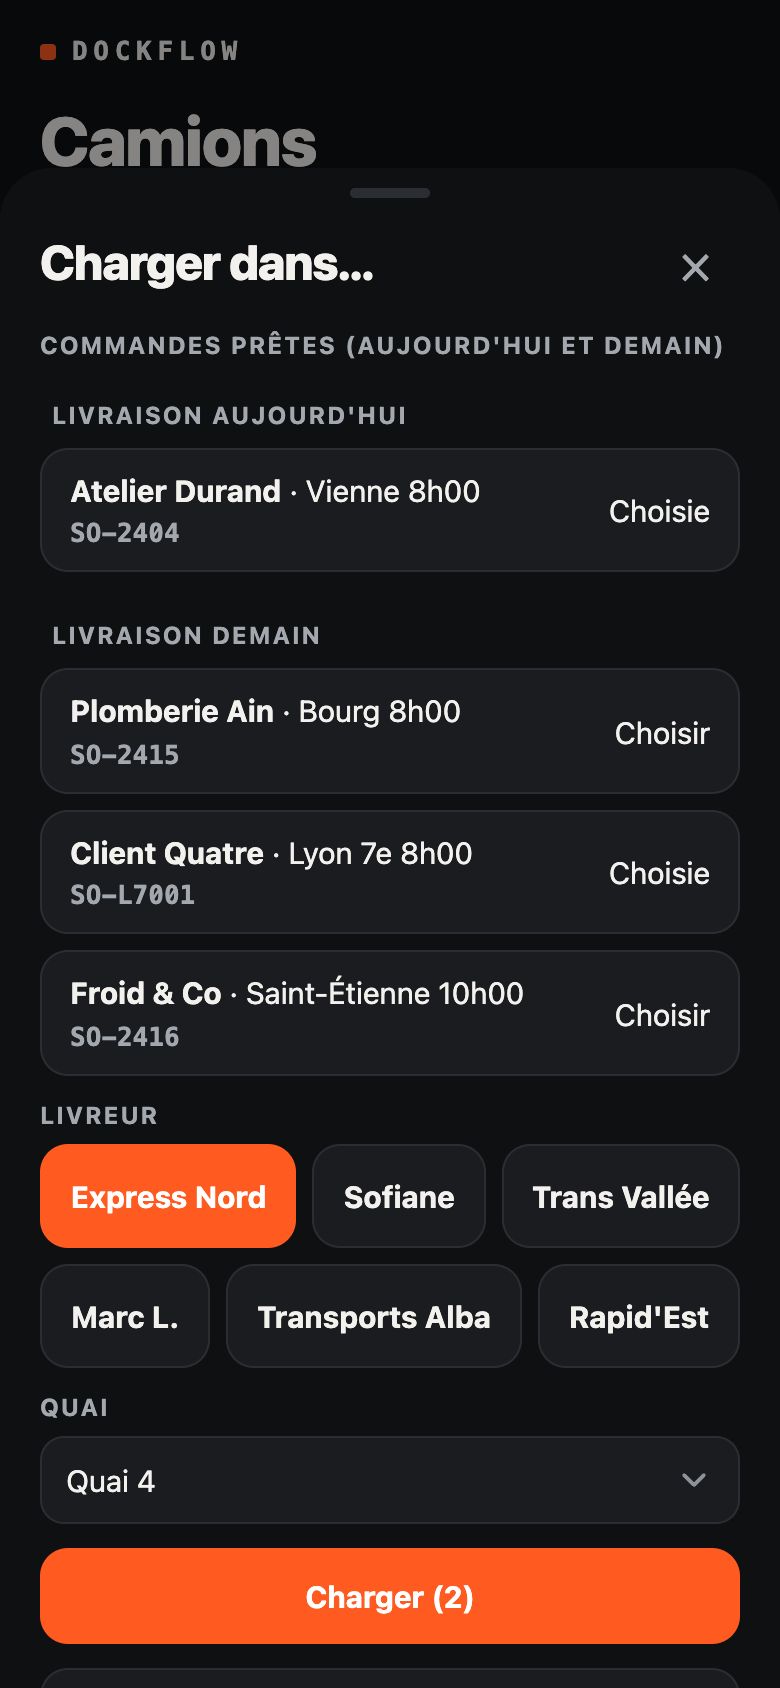
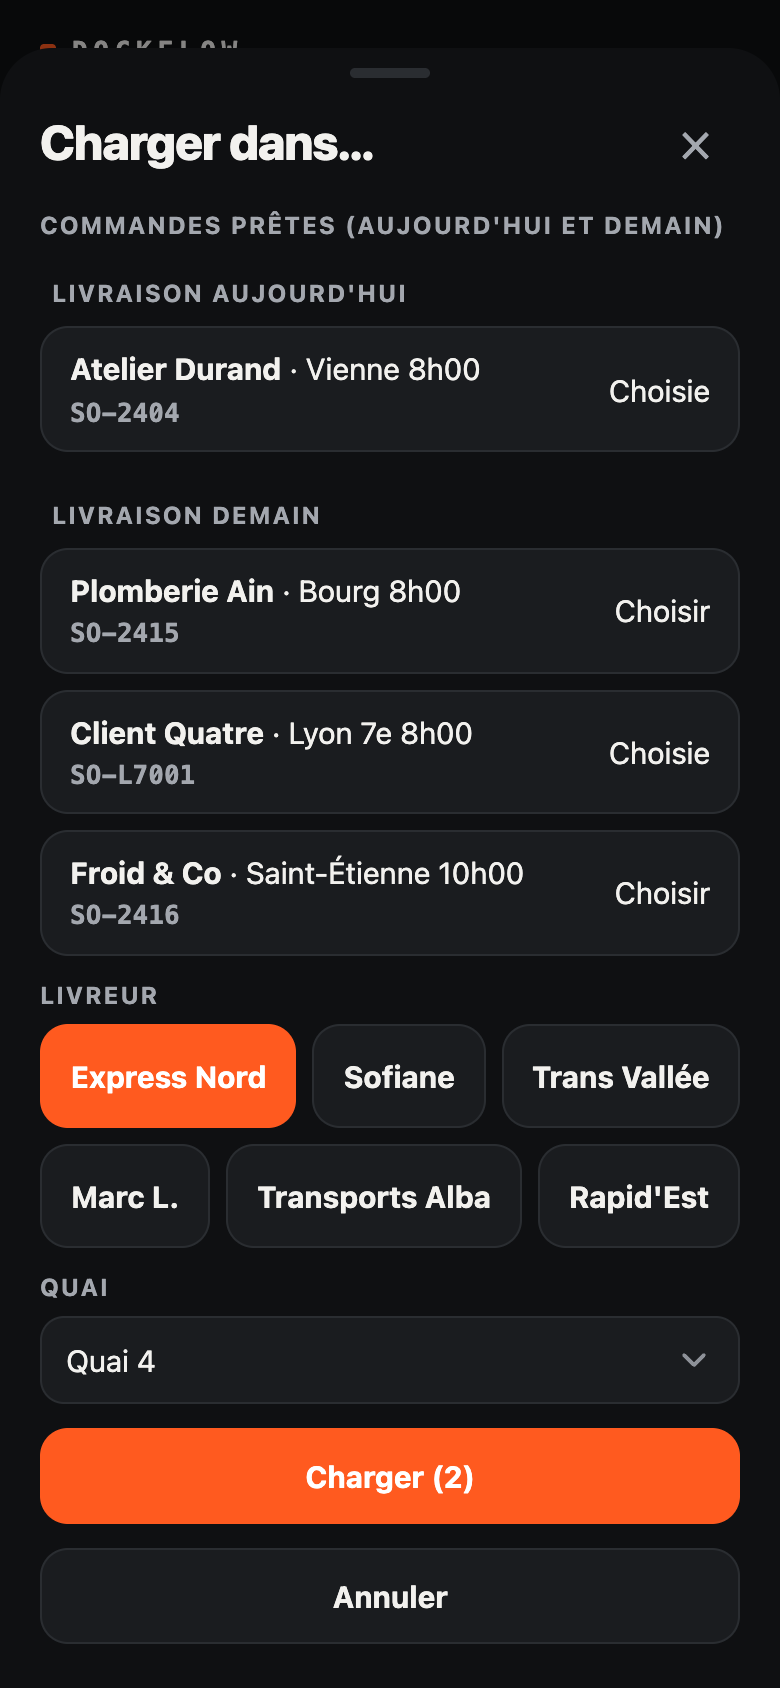
V1.3.1 : glissement anti-accident, option désactiver, dimensions iPhone 17 Pro (120 tests OK)

diff --git a/src/Card.jsx b/src/Card.jsx
@@ -10,11 +10,9 @@ import { Details } from './Details'
 const SNAP = { type: 'spring', stiffness: 900, damping: 50 }
 const GOOD = (prev, cur) => cur === 'done' || (cur === 'ready' && ['prep', 'wait'].includes(prev))
 
-function CardBase({ o, team, open, hint, onToggle, onOpen, onProblem, onMenu, onAdvance, qa }) {
+function CardBase({ o, team, open, hint, noSwipe, onToggle, onOpen, onProblem, onMenu, onAdvance, qa }) {
   const st = STATUS[o.status]
   const x = useMotionValue(0)
-  const bgR = useTransform(x, [0, 70], [0, 1])
-  const bgL = useTransform(x, [-70, 0], [1, 0])
   const lp = useRef(null), moved = useRef(false), start = useRef([0, 0]), dragging = useRef(false), prev = useRef(o.status)
   const [flash, setFlash] = useState(0)
   const issue = hasIssue(o), nxt = NEXT[o.status]
@@ -28,12 +26,43 @@ function CardBase({ o, team, open, hint, onToggle, onOpen, onProblem, onMenu, on
     return () => a.stop()
   }, [hint, x])
   const stop = () => clearTimeout(lp.current)
-  const end = (_, i) => {
-    stop(); dragging.current = false
-    if ((i.offset.x > 70 || i.velocity.x > 500) && i.offset.x > 10 && nxt) onAdvance(o)
-    else if ((i.offset.x < -70 || i.velocity.x < -500) && i.offset.x < -10) onProblem(o)
-    animate(x, 0, SNAP)
+  // Glissement maison : verrouillage d'axe strict, seuil ~45 % de la carte, pas de déclenchement « coup sec ».
+  const g = useRef(null)
+  const [armed, setArmed] = useState(0)
+  const swipeOn = !noSwipe
+  const down = (e) => {
+    moved.current = false; start.current = [e.clientX, e.clientY]
+    lp.current = setTimeout(() => { if (!moved.current) onMenu(o) }, 450)
+    if (swipeOn) g.current = { x0: e.clientX, y0: e.clientY, lock: null, w: e.currentTarget.offsetWidth, id: e.pointerId }
   }
+  const move = (e) => {
+    const dx = e.clientX - start.current[0], dy = e.clientY - start.current[1]
+    if (Math.hypot(dx, dy) > 8) { stop(); moved.current = true }
+    const s = g.current; if (!s) return
+    if (!s.lock) {
+      if (Math.abs(dy) > 10 && Math.abs(dy) >= Math.abs(dx)) { g.current = null; return } // défilement vertical : on laisse faire
+      if (Math.abs(dx) > 16 && Math.abs(dx) > 1.8 * Math.abs(dy)) { s.lock = 'x'; dragging.current = true; try { e.currentTarget.setPointerCapture(s.id) } catch {} }
+      else return
+    }
+    const lim = s.w * 0.42
+    let v = dx - Math.sign(dx) * 16
+    if (v > 0 && !nxt) v = v * 0.25
+    x.set(Math.max(-s.w * 0.7, Math.min(s.w * 0.7, v)))
+    const a = v > lim ? 1 : v < -lim ? -1 : 0
+    if (a !== armed) { setArmed(a); if (a) buzz(10) }
+  }
+  const up = () => {
+    stop(); const s = g.current; g.current = null
+    if (s?.lock) {
+      const v = x.get(), lim = s.w * 0.42
+      if (v > lim && nxt) onAdvance(o)
+      else if (v < -lim) onProblem(o)
+      setTimeout(() => { dragging.current = false }, 0)
+    }
+    setArmed(0); animate(x, 0, SNAP)
+  }
+  const bgR = useTransform(x, (v) => (v > 0 ? Math.min(1, v / 60) * (armed === 1 ? 1 : 0.55) : 0))
+  const bgL = useTransform(x, (v) => (v < 0 ? Math.min(1, -v / 60) * (armed === -1 ? 1 : 0.55) : 0))
   const col = issue ? 'var(--bad)' : st.c
   return (
     <motion.div layout={dragging.current ? false : 'position'} initial={{ opacity: 0 }} animate={{ opacity: 1 }}
@@ -41,17 +70,14 @@ function CardBase({ o, team, open, hint, onToggle, onOpen, onProblem, onMenu, on
       className={'swipe' + (o.status === 'cancel' ? ' cancel' : '') + (open ? ' open' : '')} style={{ background: "var(--card)" }} data-card={o.num} data-pack={formatPack(o)} title={o.num}>
       <div className="under">
         <motion.span style={{ opacity: bgR, background: nxt ? STATUS[nxt].c : 'transparent', position: 'absolute', inset: 0, display: 'flex', alignItems: 'center', paddingLeft: 20 }}>
-          {nxt ? '→ ' + (nxt === 'ready' ? 'Fin de préparation' : STATUS[nxt].l) : ''}
+          {nxt ? (armed === 1 ? 'Relâcher : ' : '→ ') + (nxt === 'ready' ? 'Fin de préparation' : STATUS[nxt].l) : ''}
         </motion.span>
         <motion.span style={{ opacity: bgL, background: 'var(--bad)', position: 'absolute', inset: 0, display: 'flex', alignItems: 'center', justifyContent: 'flex-end', paddingRight: 20 }}>
-          Signaler un problème
+          {armed === -1 ? 'Relâcher : problème' : 'Signaler un problème'}
         </motion.span>
       </div>
-      <motion.div className="c" style={{ x, '--s': col }} drag="x" dragDirectionLock dragConstraints={{ left: 0, right: 0 }} dragElastic={0.12} dragMomentum={false}
-        onDragStart={() => { moved.current = true; dragging.current = true; stop() }} onDragEnd={end}
-        onPointerDown={(e) => { moved.current = false; start.current = [e.clientX, e.clientY]; lp.current = setTimeout(() => { if (!moved.current) onMenu(o) }, 450) }}
-        onPointerMove={(e) => { if (Math.hypot(e.clientX - start.current[0], e.clientY - start.current[1]) > 8) stop() }}
-        onPointerUp={stop} onPointerCancel={stop}
+      <motion.div className="c" style={{ x, '--s': col }}
+        onPointerDown={down} onPointerMove={move} onPointerUp={up} onPointerCancel={up}
         onClick={() => { if (!moved.current) onToggle(o.id) }} onContextMenu={(e) => e.preventDefault()} aria-expanded={open}>
         <div className="cli">{o.client}</div>
         <div className="st"><StatusIconMorph k={issue ? 'issue' : o.status} size={16} /><span>{issue ? 'Problème' : st.l}</span></div>

diff --git a/src/style.css b/src/style.css
@@ -246,10 +246,27 @@ select{appearance:none;-webkit-appearance:none;padding-right:40px;background-ima
 .ob-dots i{height:10px}
 .ob-step .meta{font-size:15px;color:var(--mut)}
 [data-ob-mode].on{background:var(--ink)!important;border-color:var(--ink)!important;color:var(--bg)!important}
-[data-dockmode]{display:flex;justify-content:space-between;align-items:center}
-[data-dockmode]::after{content:"";width:46px;height:28px;border-radius:99px;background:var(--line);box-shadow:inset 0 0 0 2px var(--line);transition:background .18s}
-[data-dockmode][aria-pressed="true"]::after{background:#fff;box-shadow:inset 22px 0 0 2px var(--acc)}
+[data-dockmode],[data-swipeopt]{display:flex;justify-content:space-between;align-items:center}
+[data-dockmode]::after,[data-swipeopt]::after{content:"";width:46px;height:28px;border-radius:99px;background:var(--line);box-shadow:inset 0 0 0 2px var(--line);transition:background .18s}
+[data-dockmode][aria-pressed="true"]::after,[data-swipeopt][aria-pressed="true"]::after{background:#fff;box-shadow:inset 22px 0 0 2px var(--acc)}
 .btn.bad{margin-top:14px}
 [data-dockmode][aria-pressed="true"]{background:var(--card)!important;color:var(--ink)!important;border:1px solid var(--line)}
 input:focus,select:focus,textarea:focus{outline:none;border-color:var(--acc);box-shadow:0 0 0 3px color-mix(in srgb,var(--acc) 22%,transparent)}
 .ob-step .btn.acc[aria-label="Ajouter"]{background:color-mix(in srgb,var(--acc) 12%,var(--card));color:var(--acc)}
+
+/* --- V1.3.1 : dimensions iPhone 17 Pro (402 pt) et glissement --- */
+.swipe .c{touch-action:pan-y}
+html{-webkit-text-size-adjust:100%}
+.app,.scroll,.list,.top,.c,.card,.sheet .sb{min-width:0;max-width:100%}
+.c>*,.card>*,.row>*{min-width:0}
+.cli,.where,.meta,.num,.sub{overflow-wrap:anywhere}
+.row{gap:8px}
+.st{white-space:nowrap;max-width:46vw;overflow:hidden;text-overflow:ellipsis}
+.btns .btn{min-width:min(130px,100%)}
+.q2 .btn{white-space:nowrap;overflow:hidden;text-overflow:ellipsis;font-size:14px}
+.days button{min-width:0;padding:0 4px}
+.kpi,.dash{min-width:0}
+.sheet{max-height:calc(100dvh - env(safe-area-inset-top) - 24px)}
+.sheet .sb{padding-bottom:calc(24px + env(safe-area-inset-bottom))}
+.tabbar{left:max(14px,env(safe-area-inset-left));right:max(14px,env(safe-area-inset-right))}
+img{max-width:100%}

diff --git a/src/Team.jsx b/src/Team.jsx
@@ -65,11 +65,13 @@ export function Settings({ s, date, onStats, onSummary, onOnboard }) {
       </div>
       <div className="sec"><span>Affichage</span></div>
       <div className="list"><button className={'btn ' + (s.settings?.dockMode ? 'acc' : 'ghost')} data-dockmode aria-pressed={!!s.settings?.dockMode} onClick={() => setSettings({ dockMode: !s.settings?.dockMode })}>Mode au quai : {s.settings?.dockMode ? 'activé' : 'désactivé'}</button>
-        <div className="meta">Textes plus grands, boutons larges, contraste renforcé.</div></div>
+        <div className="meta">Textes plus grands, boutons larges, contraste renforcé.</div>
+        <button className="btn ghost" data-swipeopt aria-pressed={!s.settings?.noSwipe} onClick={() => setSettings({ noSwipe: !s.settings?.noSwipe })}>Glisser les cartes : {s.settings?.noSwipe ? 'désactivé' : 'activé'}</button>
+        <div className="meta">Désactivé : on utilise seulement les boutons de la carte dépliée.</div></div>
       <div className="sec"><span>Équipe</span></div>
       <div className="list"><button className="btn ghost" data-onboard onClick={onOnboard}>Configurer mon équipe</button></div>
       <div className="sec"><span>À propos</span></div>
-      <div className="list"><div className="card meta">DockFlow v1.2 — suivi des livraisons du dépôt. Données stockées uniquement sur cet appareil. Toutes les données de démo sont fictives.</div></div>
+      <div className="list"><div className="card meta">DockFlow v1.3 — suivi des livraisons du dépôt. Données stockées uniquement sur cet appareil. Toutes les données de démo sont fictives.</div></div>
     </div>
   )
 }

diff --git a/src/Day.jsx b/src/Day.jsx
@@ -53,7 +53,7 @@ export function Day({ s, date, setDate, onOpen, onProblem, onMenu, onSummary, on
       <div className="sec"><span>Commandes</span><span style={{ fontFamily: 'var(--mono)' }}>{list.length}</span></div>
       <div className="list">
         <AnimatePresence initial={false} mode="popLayout">
-          {list.map((o, i) => <Card key={o.id} o={o} team={s.team} open={openId === o.id} hint={hint && i === 0} onToggle={toggle} qa={qa} onOpen={onOpen} onProblem={onProblem} onMenu={onMenu} onAdvance={advanceCard} />)}
+          {list.map((o, i) => <Card key={o.id} o={o} team={s.team} open={openId === o.id} hint={hint && i === 0 && !s.settings?.noSwipe} noSwipe={!!s.settings?.noSwipe} onToggle={toggle} qa={qa} onOpen={onOpen} onProblem={onProblem} onMenu={onMenu} onAdvance={advanceCard} />)}
         </AnimatePresence>
         {!list.length && <div className="meta" style={{ textAlign: 'center', padding: 30 }}>Aucune commande. Touchez + pour en ajouter.</div>}
       </div>
